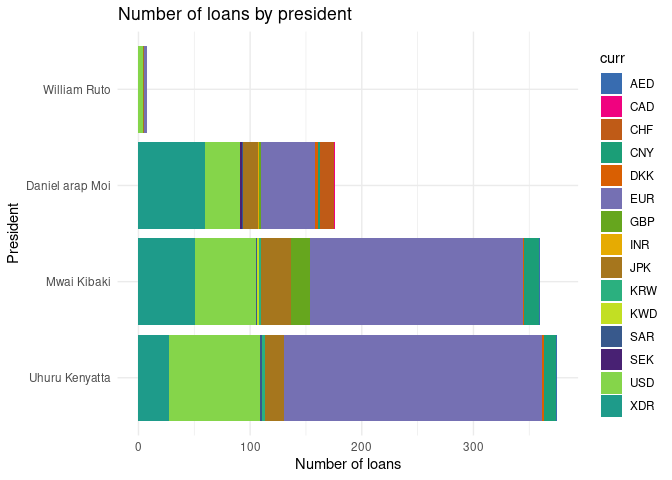
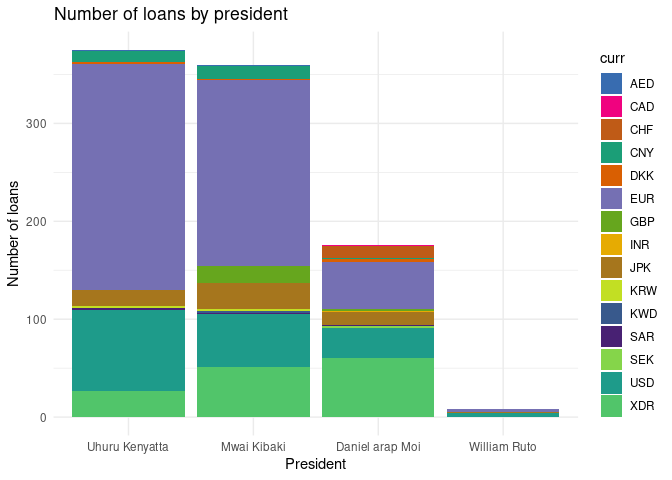
improve colors on graphs

diff --git a/README.md b/README.md
@@ -8,3 +8,7 @@ Kenya External Debt Register
 ## Loan Duration by President
 
 ![](README_files/figure-gfm/unnamed-chunk-2-1.png)<!-- -->
+
+## Number of loans by creditor category
+
+![](README_files/figure-gfm/unnamed-chunk-3-1.png)<!-- -->
